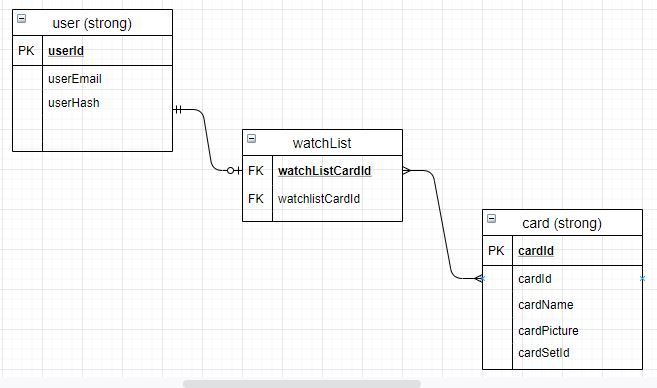
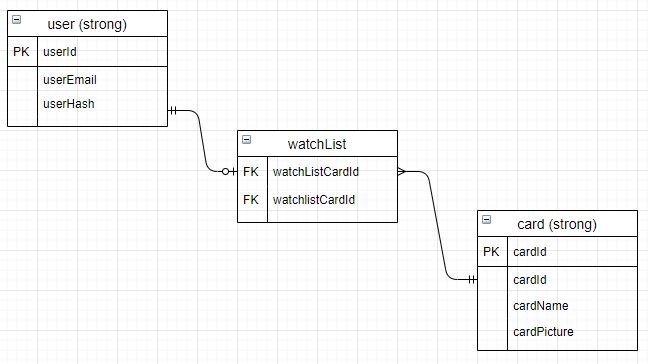
Updated conceptual model to change relation between cards and watch list.

Changed region(s): [[0.0, 0.0, 0.679, 0.6346], [0.679, 0.544, 0.9877, 0.967], [0.2778, 0.967, 0.6481, 1.0]]

diff --git a/Epic/conceptual-model.html b/Epic/conceptual-model.html
@@ -39,7 +39,7 @@
     <h1>Relations</h1>
         <ul>
             <li>One User can have one watch list (1 to 1)</li>
-            <li>Many cards can be on many watch lists (many to many)</li>
+            <li>One unique card can be on many watch lists (1 to many)</li>
         </ul>
 </div>
 
